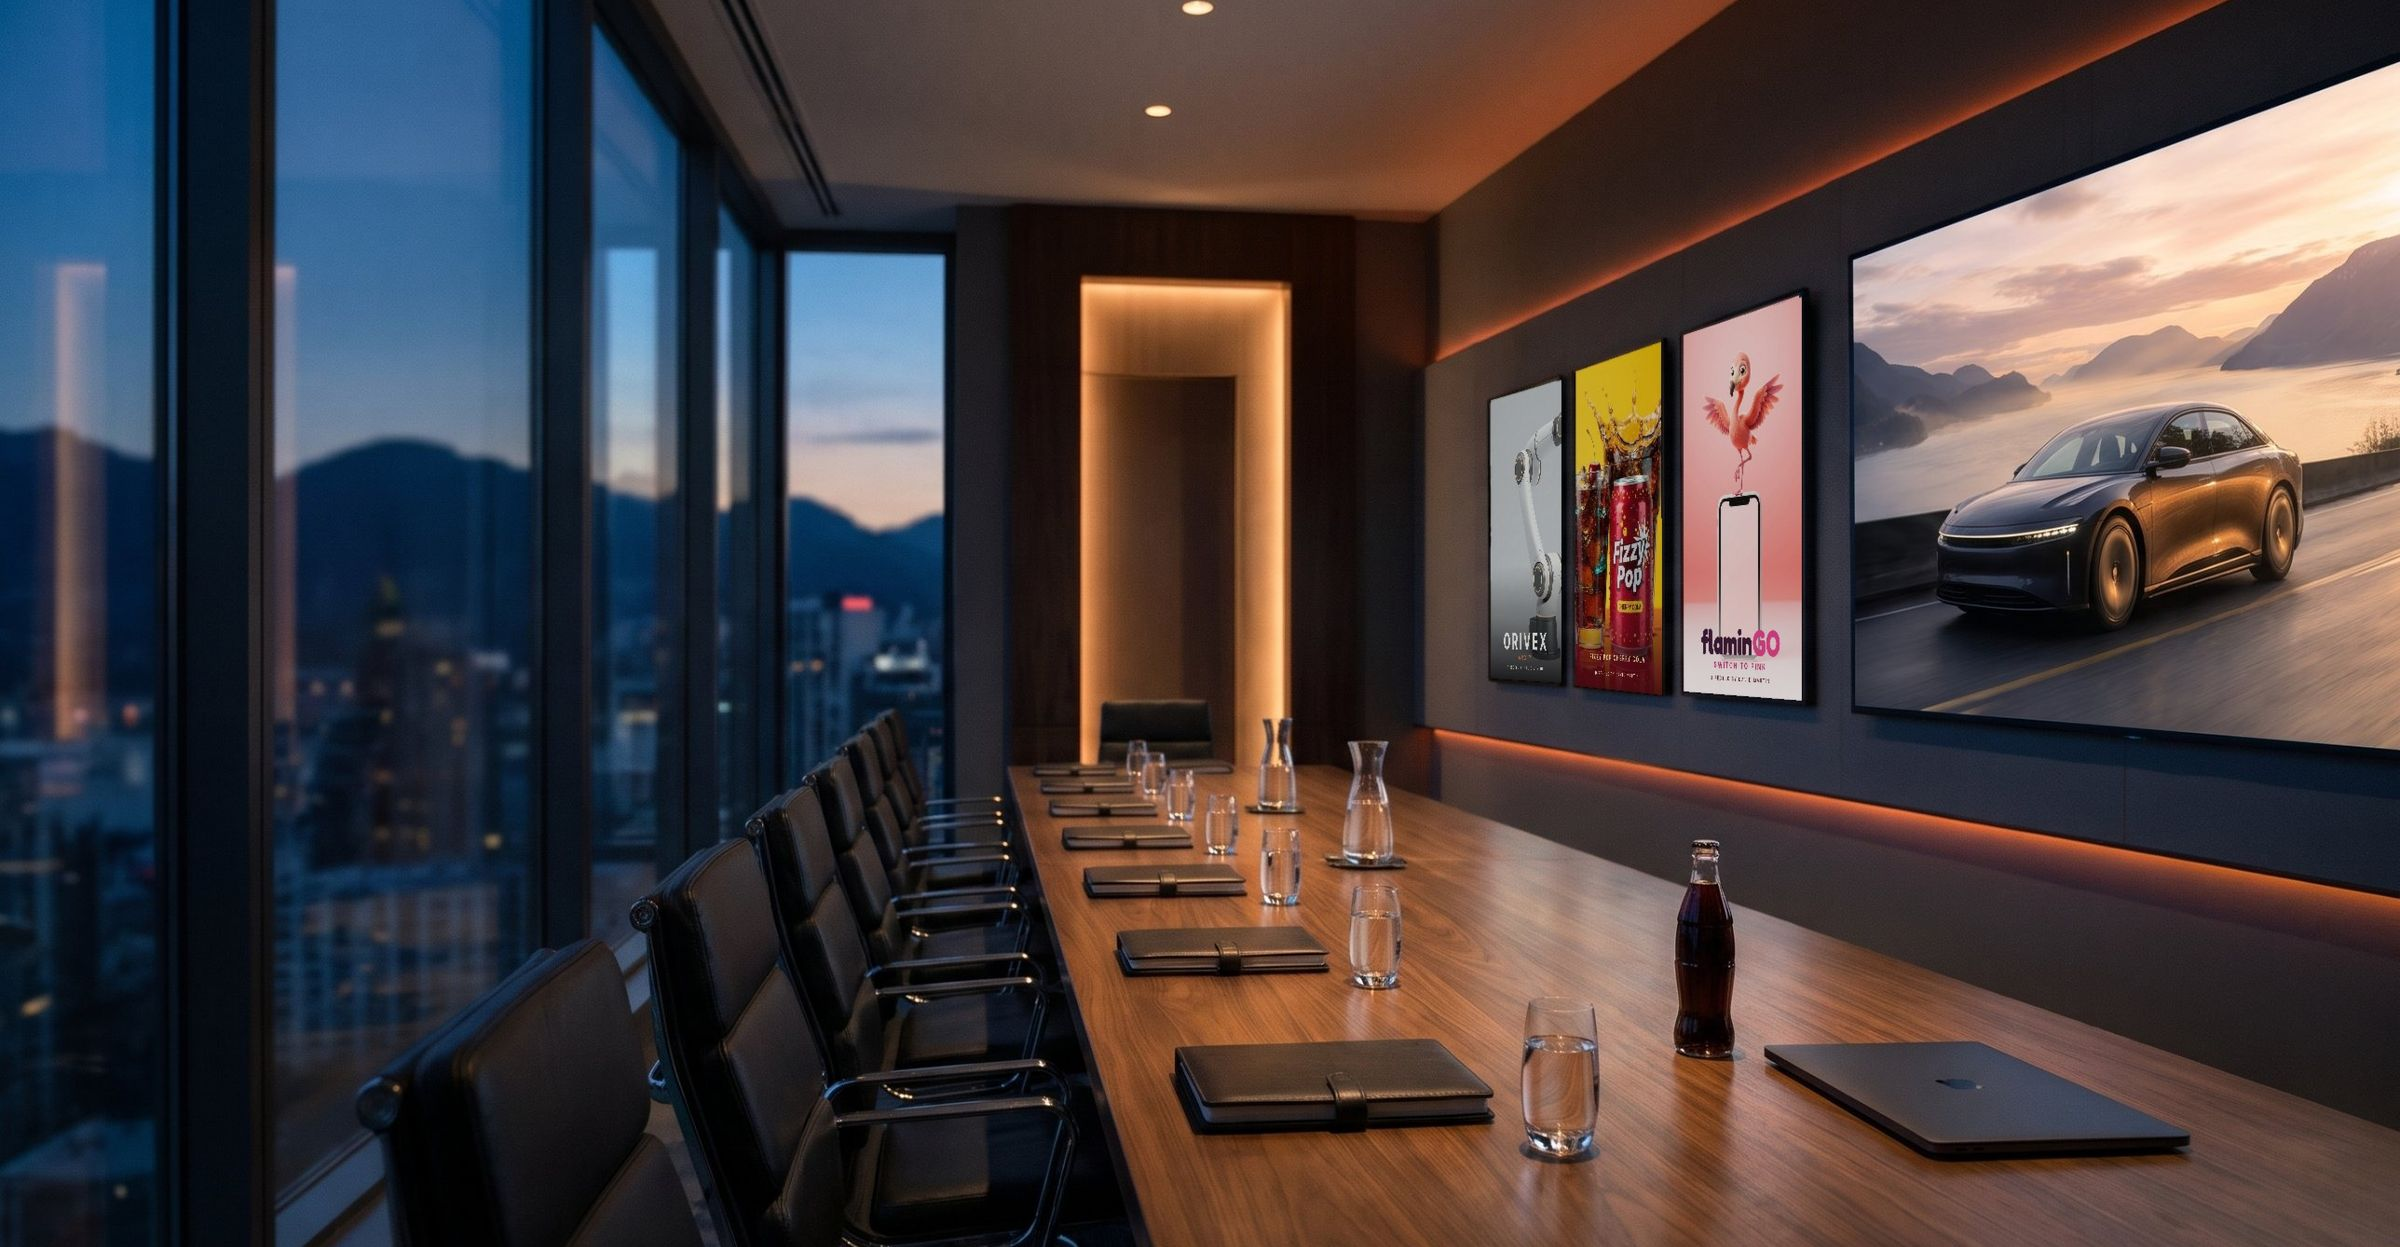
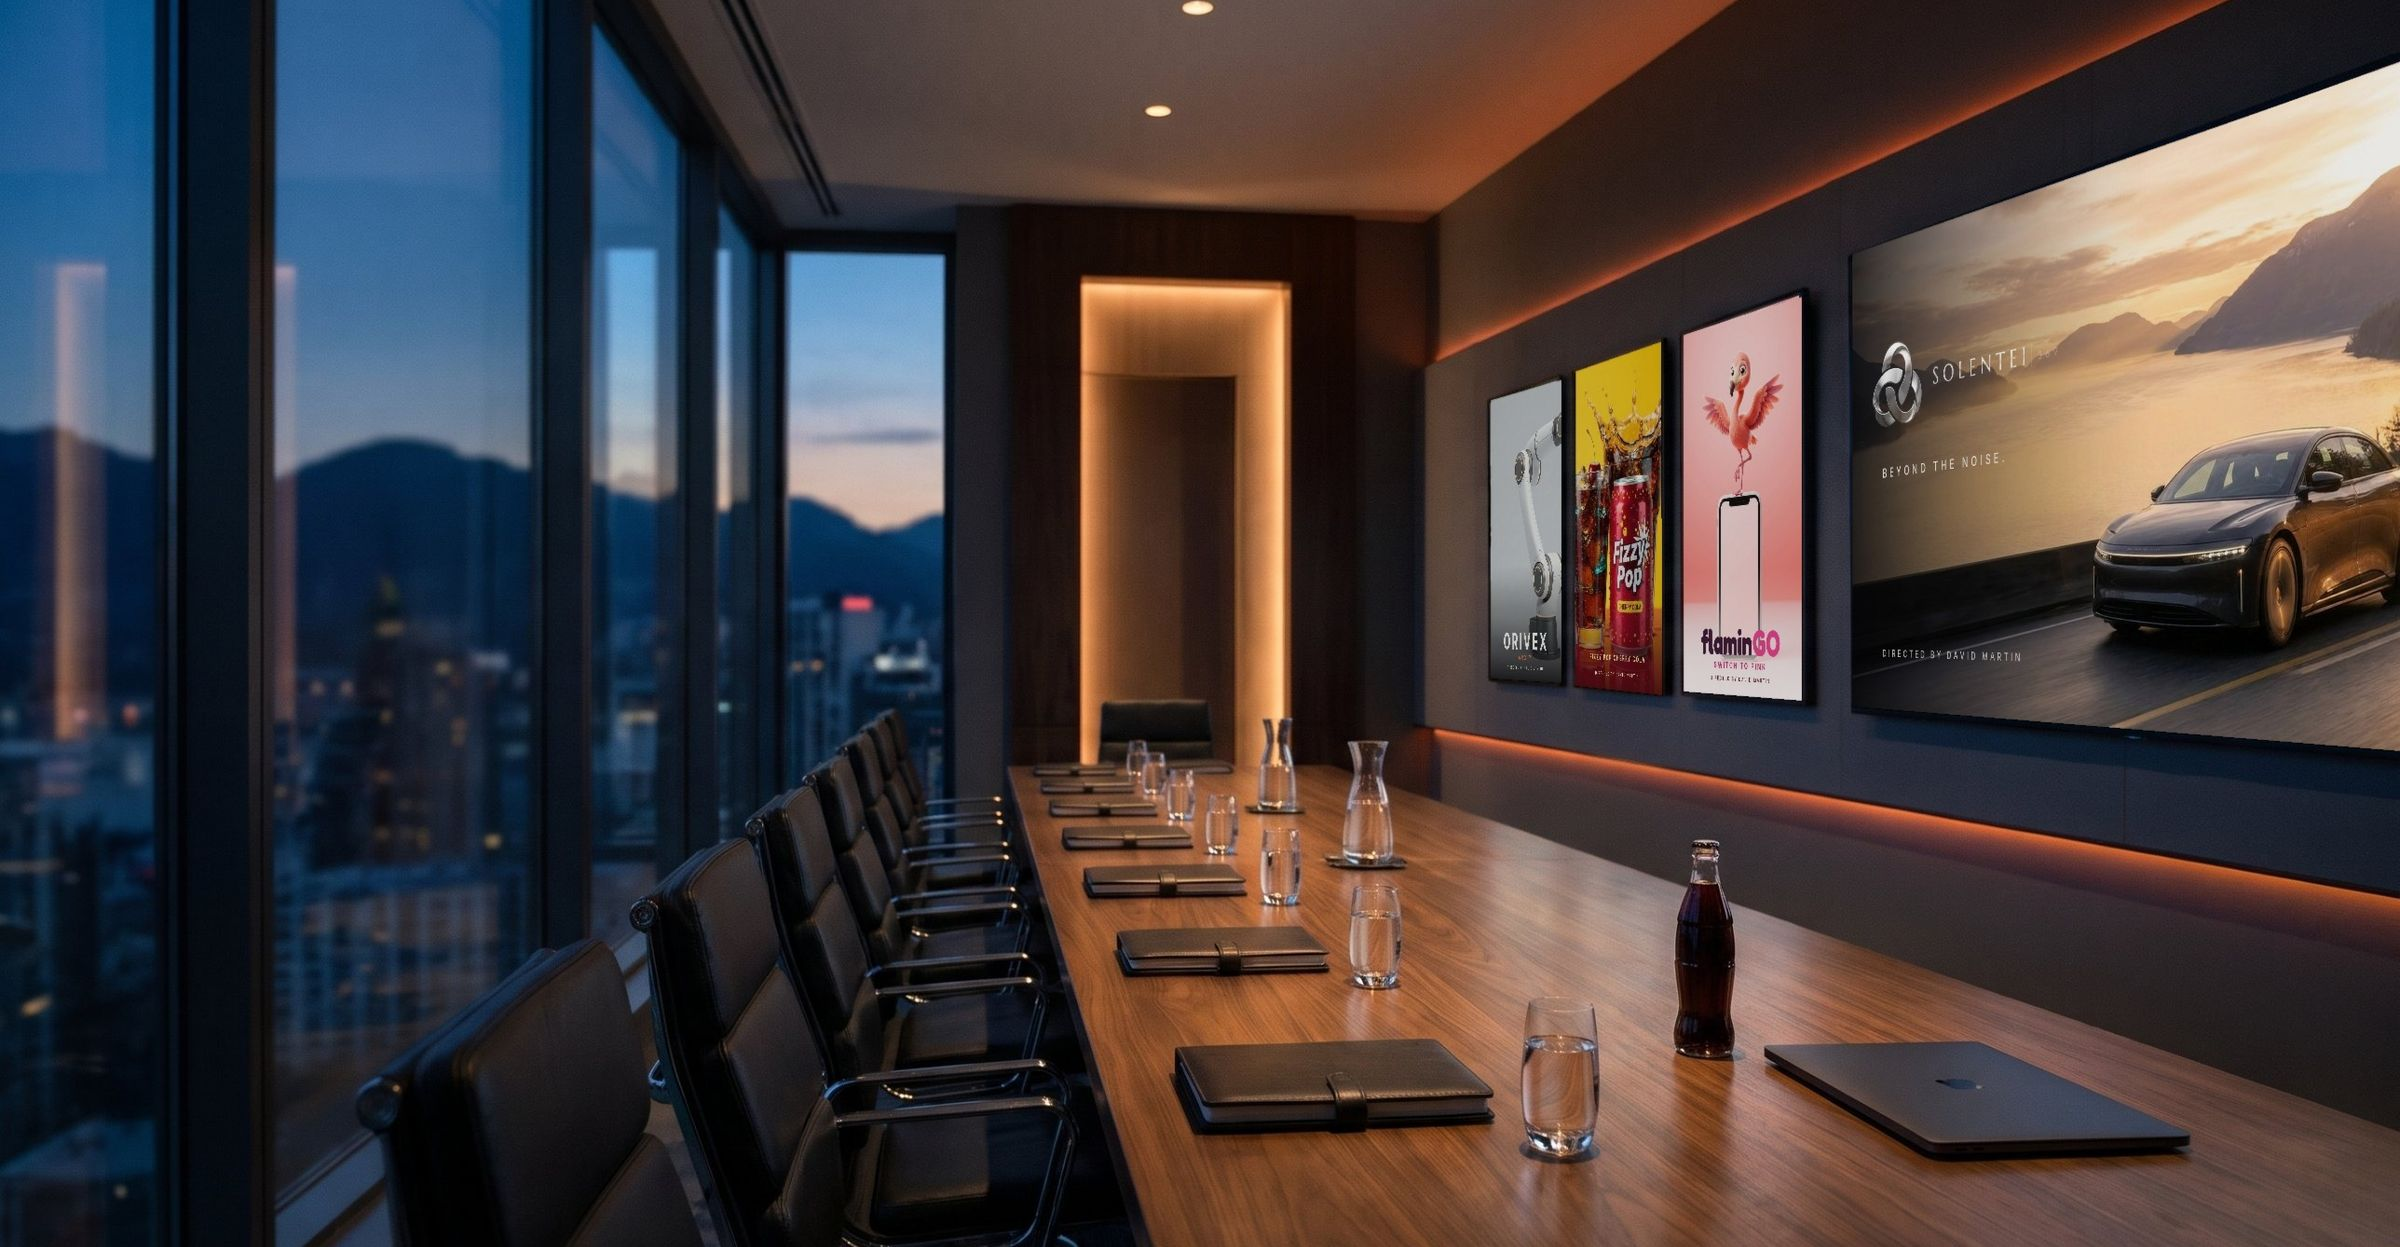
Home hero: big screen now shows a SOLENTEI 369 poster
- Built from the SOLENTEI key art, lockup and tagline
- Poster file saved in img/posters

Claude-Session: https://claude.ai/code/session_016tvzwU3cz4MoTCXz6b5jFJ

Changed region(s): [[0.75, 0.0914, 1.0, 0.6095]]

diff --git a/public/index.html b/public/index.html
@@ -1,5 +1,5 @@
 <!doctype html><html lang="en"><head><meta charset="utf-8"><meta name="viewport" content="width=device-width, initial-scale=1, viewport-fit=cover"><title>David Martin | Creative Professional</title><meta name="description" content="Creative Director with a video and visual-content specialty. I create and direct video, visual content, campaigns and digital experiences, combining creative direction with hands-on production and emerging AI technology."><link rel="canonical" href="https://studio.madebydavidmartin.com/"><meta name="theme-color" content="#231A10"><meta name="author" content="David Martin"><meta property="og:type" content="website"><meta property="og:site_name" content="David Martin, Creative Professional"><meta property="og:title" content="David Martin | Creative Professional"><meta property="og:description" content="Creative Director with a video and visual-content specialty. I create and direct video, visual content, campaigns and digital experiences, combining creative direction with hands-on production and emerging AI technology."><meta property="og:url" content="https://studio.madebydavidmartin.com/"><meta property="og:image" content="https://studio.madebydavidmartin.com/img/og-card.jpg?v=2"><meta property="og:image:width" content="1200"><meta property="og:image:height" content="630"><meta name="twitter:card" content="summary_large_image"><meta name="twitter:image" content="https://studio.madebydavidmartin.com/img/og-card.jpg?v=2"><link rel="icon" href="favicon.svg" type="image/svg+xml"><link rel="icon" href="favicon.ico" sizes="any"><link rel="apple-touch-icon" href="apple-touch-icon.png"><link rel="preconnect" href="https://fonts.googleapis.com"><link rel="preconnect" href="https://fonts.gstatic.com" crossorigin><link rel="stylesheet" href="https://fonts.googleapis.com/css2?family=Cormorant+Garamond:wght@300&family=IBM+Plex+Mono:wght@400;500&family=Caveat:wght@600&family=Geist:wght@400;500;600;700&family=Geist+Mono:wght@400;500&display=swap"><link rel="stylesheet" href="https://api.fontshare.com/v2/css?f[]=clash-display@600,700&display=swap">
-<link rel="preload" as="image" href="img/hero-banner.jpg?v=7" fetchpriority="high">
+<link rel="preload" as="image" href="img/hero-banner.jpg?v=8" fetchpriority="high">
 <link rel="stylesheet" href="styles.css?v=c1032"><style>body{margin:0}
 .flag-card{display:grid;grid-template-columns:minmax(240px,400px) 1fr;gap:28px;align-items:center;background:var(--card);border:1px solid var(--line);border-radius:0;overflow:hidden;color:var(--ink);margin:26px 0 4px}
 .flag-card video{width:100%;height:100%;object-fit:cover;display:block;aspect-ratio:16/9;background:#000}
@@ -116,7 +116,7 @@
 .cine{position:relative;isolation:isolate;--hero-photo-o:1}
 .cine{background:#E7D6B4;box-shadow:0 0 0 100vmax #E7D6B4}
 main .cine::after{background:linear-gradient(90deg,rgba(8,8,10,.74),rgba(8,8,10,.22) 55%,rgba(8,8,10,0) 80%)} /* Oct 2026: retire old hero-home.jpg now that hero-edit-suite.jpg is the hero background */
-.cine::before{content:"";position:absolute;top:0;bottom:0;left:50%;transform:translateX(-50%);width:100vw;z-index:0;pointer-events:none;opacity:0;animation:cineBgIn 1.8s ease .15s forwards;background:url("img/hero-banner.jpg?v=7") center 62%/cover no-repeat}
+.cine::before{content:"";position:absolute;top:0;bottom:0;left:50%;transform:translateX(-50%);width:100vw;z-index:0;pointer-events:none;opacity:0;animation:cineBgIn 1.8s ease .15s forwards;background:url("img/hero-banner.jpg?v=8") center 62%/cover no-repeat}
 .cine-in{position:relative;z-index:1}
 @keyframes cineBgIn{from{opacity:0}to{opacity:var(--hero-photo-o,.8)}}
 @media (prefers-reduced-motion:reduce){.cine::before{animation:none;opacity:var(--hero-photo-o,.8)}}
